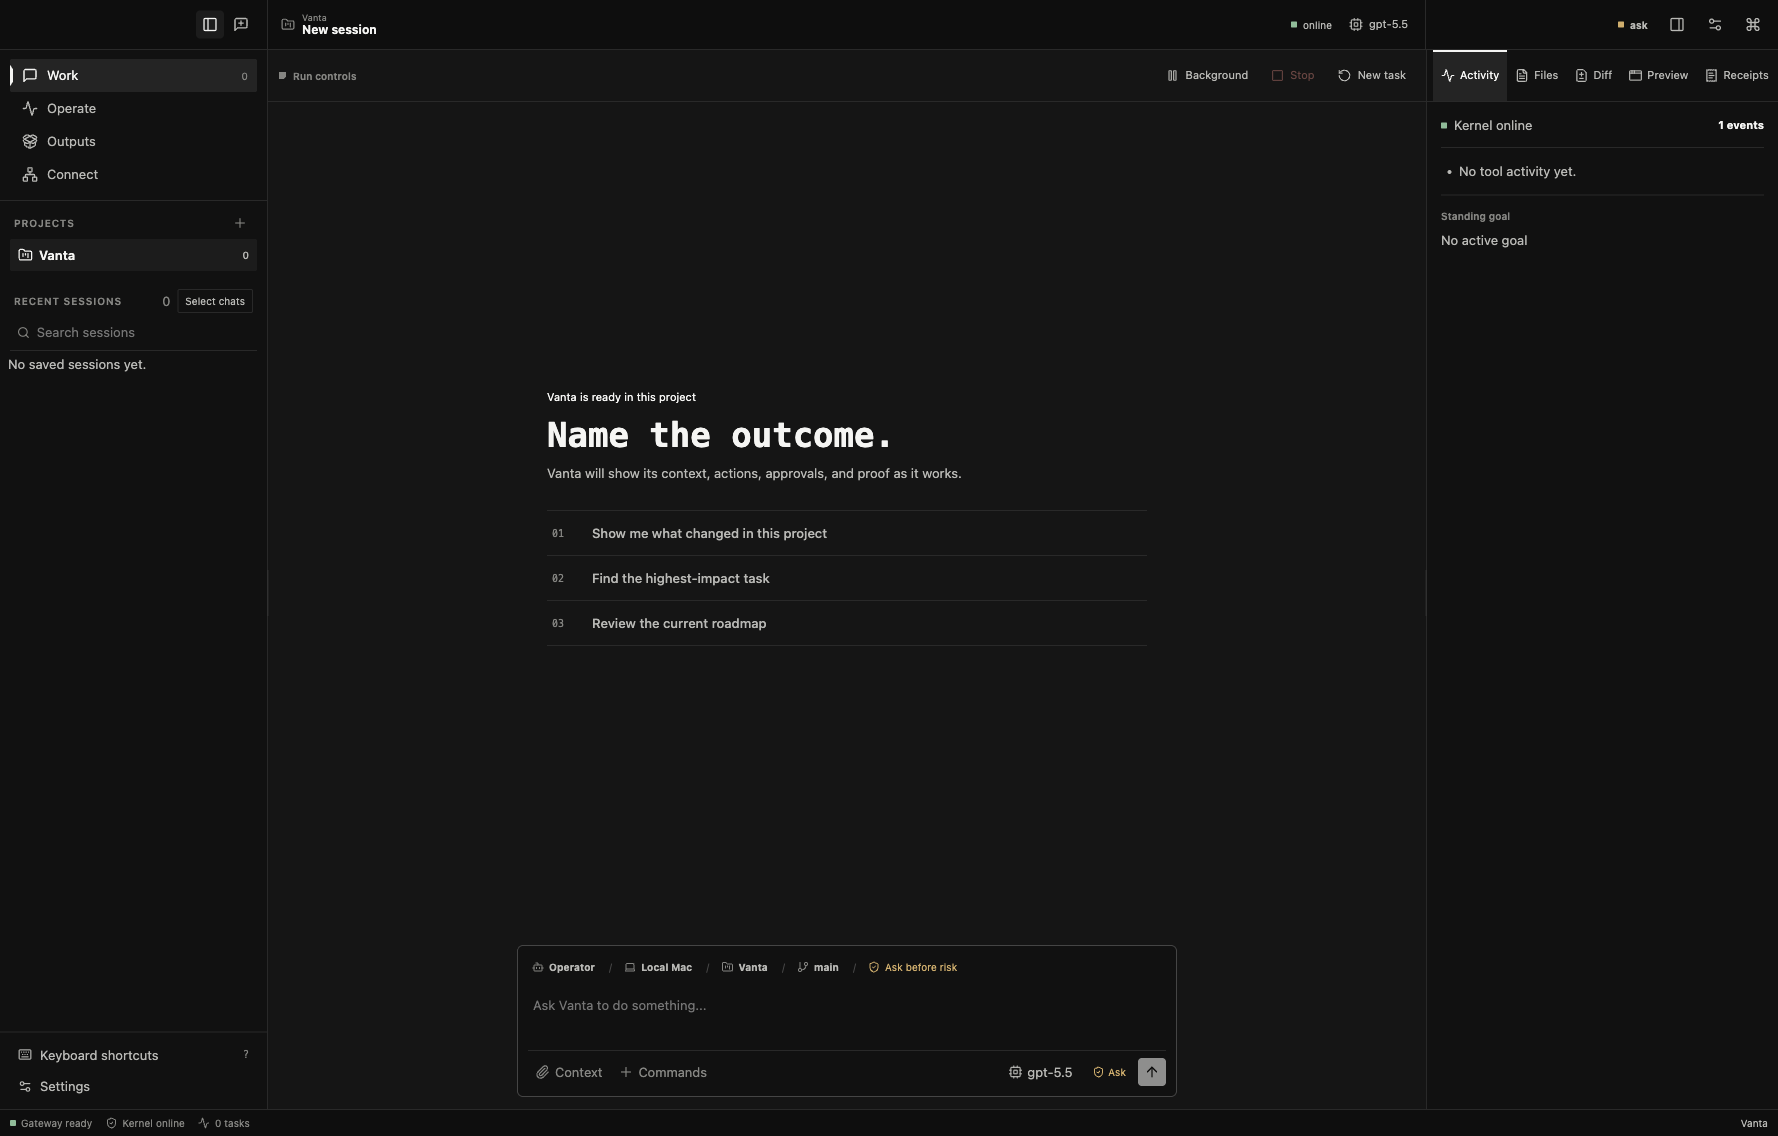
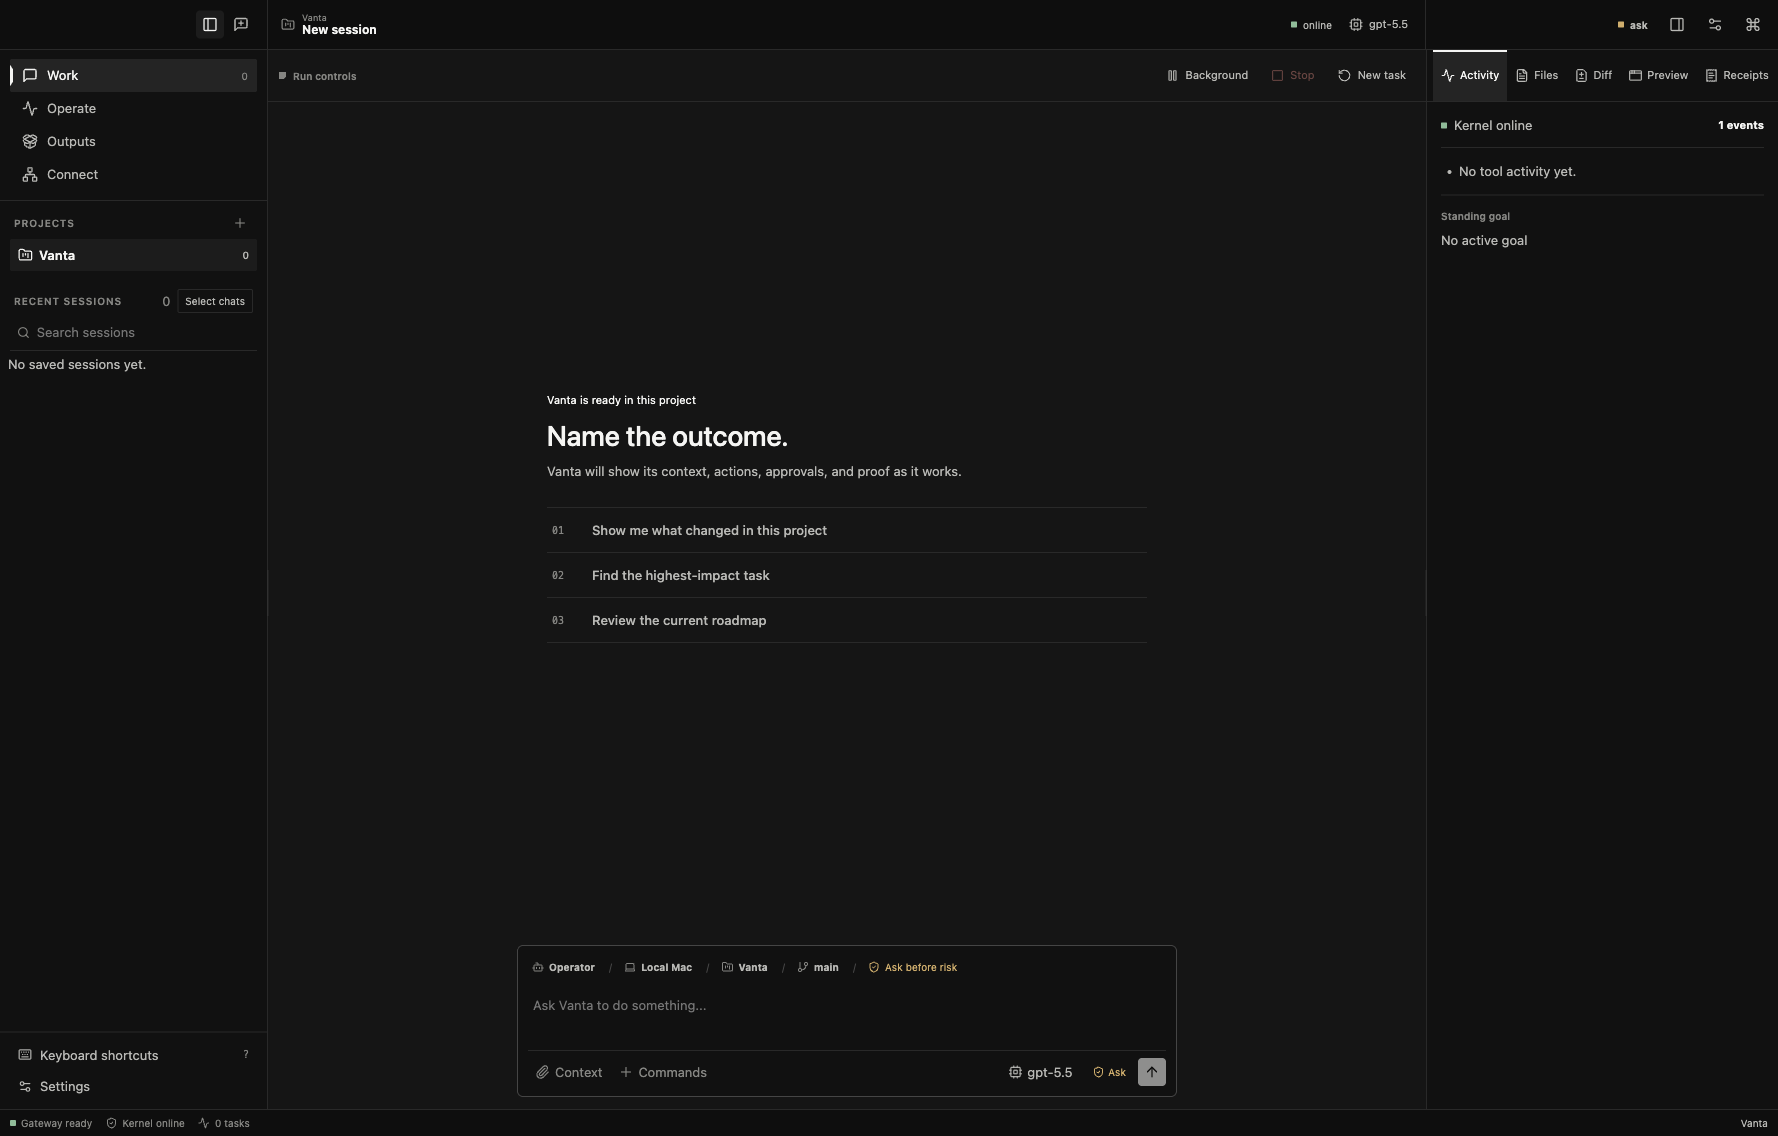
style: refine desktop outcome heading

Changed region(s): [[0.3093, 0.3389, 0.5259, 0.4313], [0.3403, 0.4621, 0.464, 0.5546]]

diff --git a/vanta-ts/desktop-app/src/design/workflows.css b/vanta-ts/desktop-app/src/design/workflows.css
@@ -230,10 +230,10 @@
 
 .empty-state h2 {
   margin-block: 2px 0;
-  font-family: var(--font-mono);
-  font-size: clamp(26px, 4cqi, 34px);
-  font-weight: 600;
-  line-height: 1.15;
+  font-family: var(--font-ui);
+  font-size: clamp(24px, 3cqi, 28px);
+  font-weight: 500;
+  line-height: 1.2;
   letter-spacing: 0;
 }
 

diff --git a/docs/research/vanta-desktop-anti-slop-2026-07-15.md b/docs/research/vanta-desktop-anti-slop-2026-07-15.md
@@ -31,7 +31,7 @@ Vanta Desktop is an operator workbench, not a generic AI dashboard. The visual a
 - The renderer root and app shell explicitly fill `100vw`/`100dvh`; the native BrowserWindow and splash fallback use the same workspace color so uncovered resize edges do not read as broken black space.
 - The Work run-control toolbar and the inspector tab tray now share one 52px chrome row, matching top and bottom baselines so the shell reads as a single aligned surface instead of two mismatched bars.
 - Dark and light themes now use the corrected Vanta Ghost system: black, bone white, and neutral gray. Green, amber, and red are reserved for semantic status only; selection, navigation, focus, and actions remain monochrome. Both modes share the same semantic tokens and layout contract.
-- Typography now follows the installed Codex desktop stack: SF Pro Text/system UI for interface copy and SF Mono/ui-monospace for technical headings and labels. The outcome heading is capped at 34px so it reads as workbench chrome instead of a marketing hero.
+- Typography now follows the installed Codex desktop stack: SF Pro Text/system UI for interface copy and display headings, with SF Mono/ui-monospace reserved for technical metadata. The outcome heading is capped at 28px and weight 500 so it reads as quiet workbench chrome instead of a heavy poster headline.
 
 ## Verification ledger
 
@@ -44,7 +44,7 @@ Executed against the current source renderer and Electron shell:
 - `npm run desktop:shell-convergence:smoke` — passed the explicit chrome-row geometry check: Work toolbar and inspector tabs both measured 52px high with a shared 102px bottom baseline.
 - `npm run desktop:operator-flows:smoke` — passed model, connect, capabilities, messaging, outputs, attachments, queue/stop, shortcuts, settings, provider setup, light theme, and pane persistence.
 - 2026-07-15 Ghost theme correction: `npm run desktop:renderer:typecheck`, `npm run desktop:operator-flows:smoke`, `VANTA_DESKTOP_SMOKE_PORT=7921 npm run desktop:layout:smoke`, and `npm run desktop:shell-convergence:smoke` passed. Shell convergence measured the running dark shell as `rgb(10, 10, 10)` with bone-white text `rgb(245, 245, 243)`; operator flows switched through Settings to Ghost light. All normal, muted, faint, and action text pairs measured at or above WCAG AA contrast.
-- 2026-07-15 Codex typography correction: `npm run desktop:renderer:typecheck` passed and the Electron layout smoke computed the empty-state heading as `ui-monospace, SFMono-Regular, "SF Mono", Menlo, Consolas, "Liberation Mono", monospace` at `34px` with a `39.1px` line height. The same run completed the desktop, recovery, files, and 640x900 model-picker flows.
+- 2026-07-15 Codex typography correction: the first mono display treatment was rejected in visual review as too tall and heavy. `npm run desktop:renderer:typecheck` passed and the corrected Electron layout smoke computed the empty-state heading as `-apple-system, system-ui, "SF Pro Text", sans-serif` at `28px`, weight `500`, with a `33.6px` line height. The same run completed the desktop, recovery, files, and 640x900 model-picker flows.
 - `npm run desktop:sessions:smoke` — passed rename, archive, restore, and delete.
 - `npm run desktop:native:smoke` — passed renderer asset startup, packaged kernel online, terminal-love mount, and obsidian-vault mount. Codegraph remained skipped because its trust gate is external to this visual pass.
 